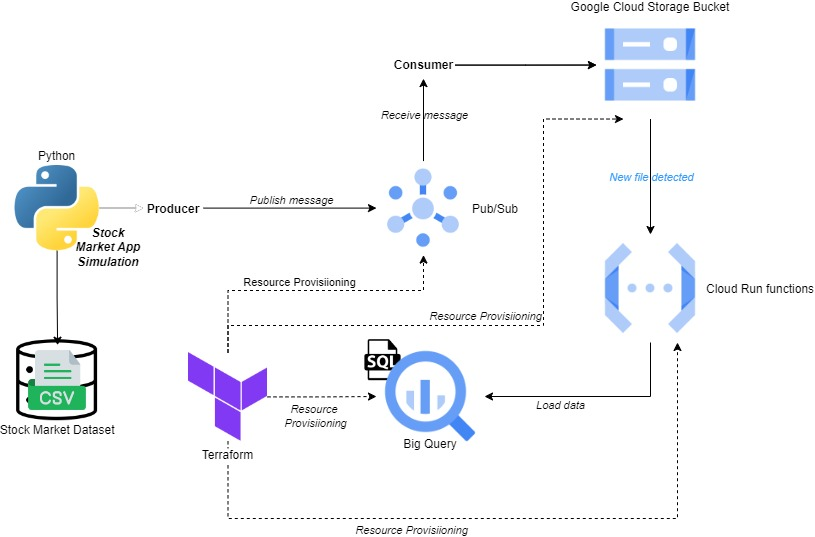
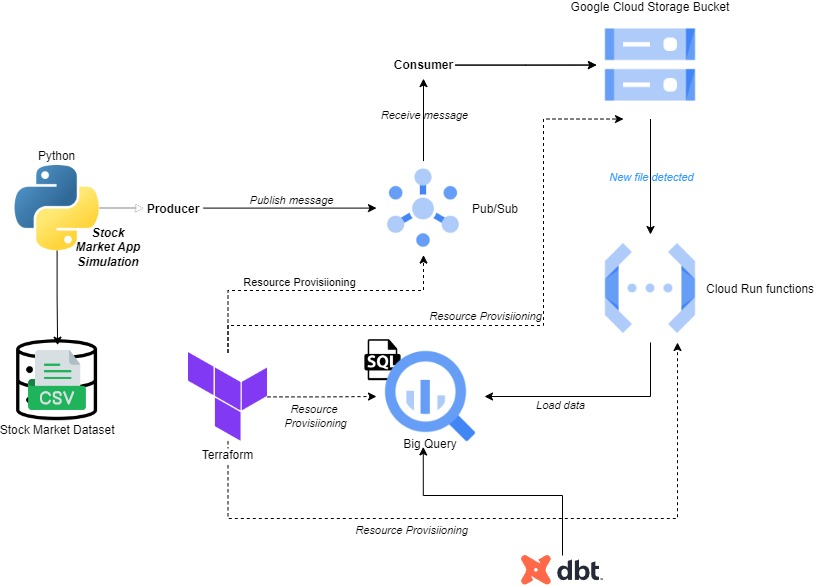
Update README file

diff --git a/README.md b/README.md
@@ -1,6 +1,6 @@
 # Stock Market Real Time Data Analysis
-
-This project automates the deployment of Google Cloud Pub/Sub resources using Terraform. The infrastructure includes a Pub/Sub topic and subscription, allowing for messaging between different components of the system.
+&nbsp;&nbsp;This project is focused on building a data pipeline for real-time stock market data analysis using Google Cloud Platform (GCP) and other open-source technologies. The pipeline ingests, processes, and analyzes stock market data to provide valuable insights.
+&nbsp;&nbsp;This project automates the deployment of Google Cloud Pub/Sub resources using Terraform. The infrastructure includes a Pub/Sub topic and subscription, allowing for messaging between different components of the system.
 
 ## Project Architecture
 
@@ -50,6 +50,7 @@ The Cloud Function is triggered when a JSON file is uploaded to the Cloud Storag
 - Zip file containing the Cloud Function code (main.py and requirements.txt)
 
 ## How to Use
+### Terraform Setup
 
 1. **Clone the repository**:
 
@@ -105,6 +106,32 @@ The Cloud Function is triggered when a JSON file is uploaded to the Cloud Storag
 6. **Upload the Cloud Function zip file**: 
 Ensure the zip file containing the Cloud Function code (main.py, requirements.txt) is in the correct path and gets uploaded to the specified bucket.
 
+### dbt Setup
+This section describes the integration of dbt (Data Build Tool) for data transformation and modeling within the project.
+1. **Set `DBT_PROFILES_DIR` environment variable**
+2. **Change directory:**
+```bash
+cd dbt_integration
+```
+3. **Modify the file `profiles.yml` with your own connection credentials:**
+A `profiles.yml` file should be configured with the necessary details for connecting to the BigQuery data warehouse.
+4. **Set up Application Default Credentials:**
+```bash 
+gcloud init
+gcloud auth application-default login
+```
+5. **Run dbt commands:**
+**Models**: The `myModel.sql` file contains the transformations applied to the stock market data to clean, aggregate, and enhance the dataset.
+**Tests**: Custom tests, such as `not_null_all_columns.sql`, have been implemented to validate the data integrity and ensure no null values are present in the critical columns.
+```bash
+dbt run
+dbt test
+```
+Or 
+```bash 
+dbt build
+``` 
+
 ## Cleanup
 
 To delete the resources created by Terraform, you can run:
@@ -113,7 +140,3 @@ To delete the resources created by Terraform, you can run:
 terraform destroy
 ```
 
-<span style="color:red">PS:</span>
-<span>I have deleted the dataset, the table, the buckets, and disabled the APIs (BigQuery, Functions) to not to be charged. </span>
-<span>=> Recreate them if needed</span>
-![dataset](dataset.jpg)
